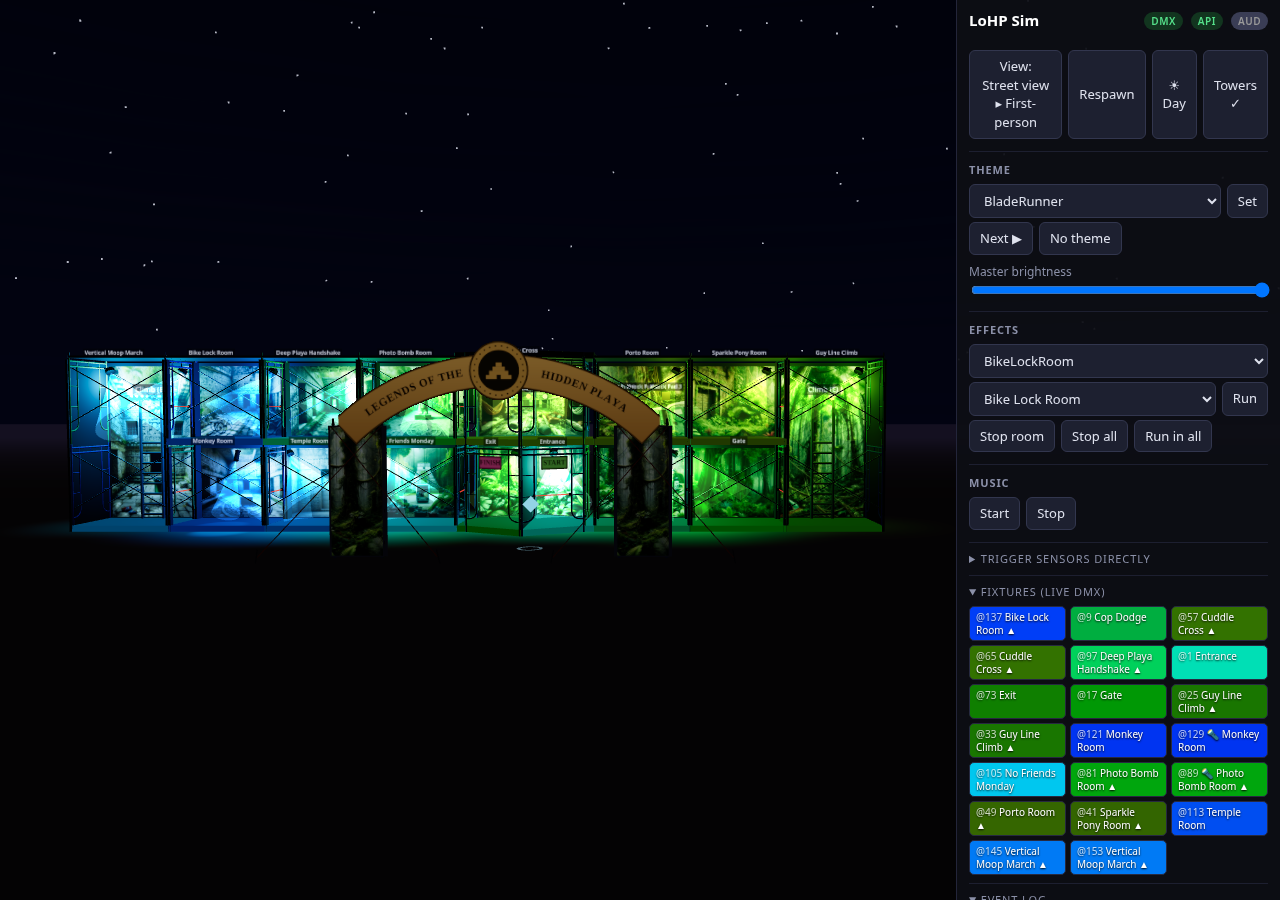
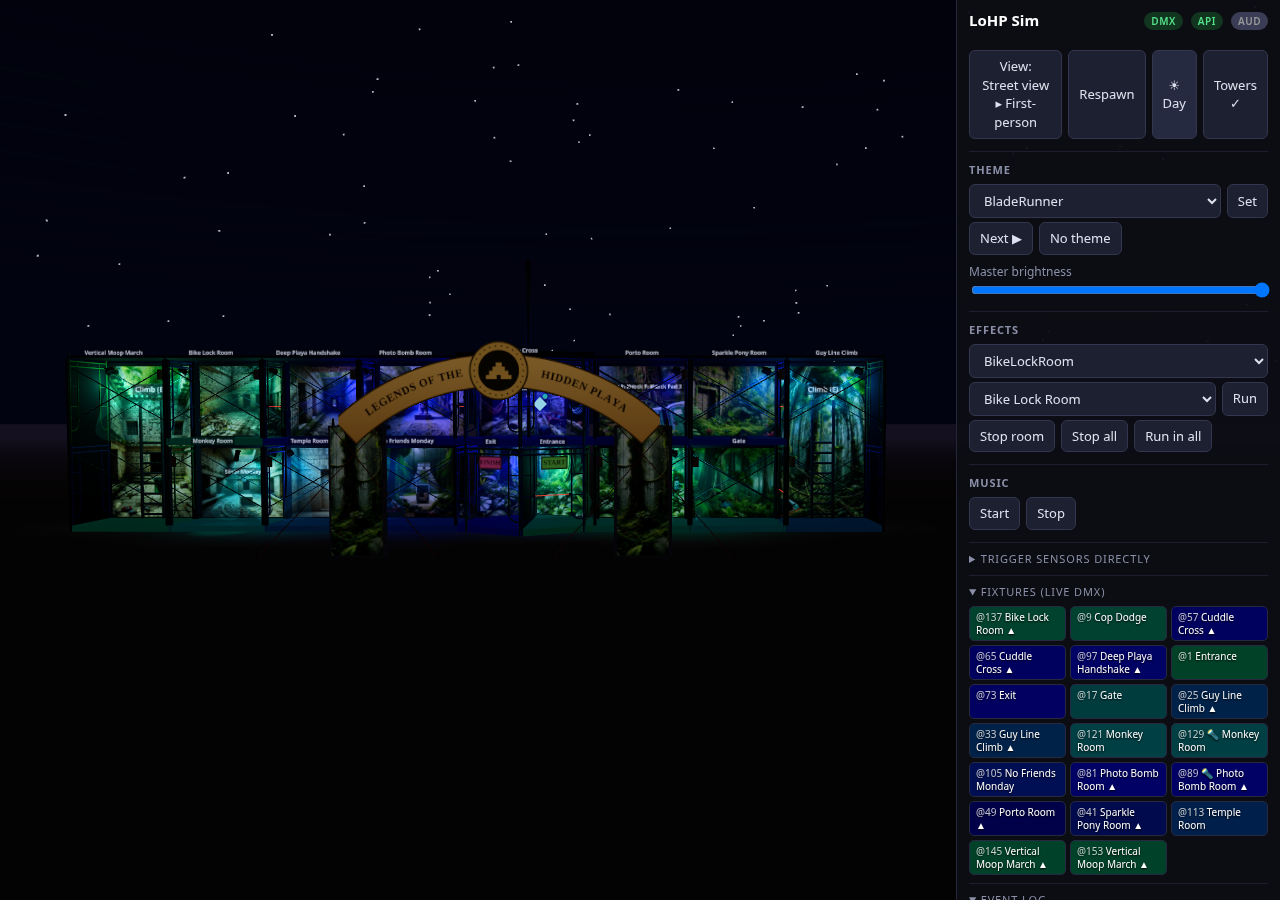
Sim: 20ft center mast, 5'11" eye line, room node-enclosure mounts + LD2410C plan
- hex center: single continuous 20 ft stick of 3" schedule 40 pipe (3.5" OD)
  from the ground through the Cuddle Cross deck and roof to the sky
  (hex_center.center_pole)
- first-person camera: EYE = 1.69 m (a 5'11" visitor's eye line) replaces the
  four hardcoded 1.6 m spots
- wiring-guides/room-node-enclosure-plan.md: wooden one-box-per-room node
  enclosures (XIAO C3 + LD2410C + power), frame-leg mounts only (no cross
  braces), pre-departure gate/threshold lock-in protocol (no on-site tuning)
- sim renders each room's enclosure block at its planned mount (per-room
  "enclosure" entries): wing bays on the entry-side front leg at 1.55 m,
  radar window aimed at the opposite back corner; Cuddle Cross back corner;
  Entrance/Exit near the back legs facing their arches
- README street screenshots refreshed with mast + enclosures

Changed region(s): [[0.0312, 0.3733, 0.6875, 0.6222], [0.75, 0.6533, 1.0, 0.9956]]

diff --git a/sim/web/app.js b/sim/web/app.js
@@ -23,6 +23,9 @@ let AUDIO_WS = `ws://${HOST}:8765`;
 const MODES = ['street', 'first', 'top'];
 const MODE_LABEL = { street: 'Street view', first: 'First-person', top: 'Overhead plan' };
 
+// first-person eye line: our visitors stand ≈5'11" (1.80 m), eyes at 1.69 m
+const EYE = 1.69;
+
 const S = {
   cfg: null,
   frame: new Uint8Array(168),
@@ -37,7 +40,7 @@ const S = {
   piezoAttempts: 0,
   mode: 'street',
   keys: {},
-  pos: new THREE.Vector3(11.7, 1.6, 4.5),
+  pos: new THREE.Vector3(11.7, EYE, 4.5),
   level: 0,
   prev2: { x: 11.7, z: 4.5 },
   yaw: 0, pitch: 0,
@@ -216,6 +219,7 @@ const matStrap = new THREE.MeshStandardMaterial({ color: 0xc65f1e, roughness: 0.
 // tower wrap: same shade cloth as the maze walls, but the towers carry no
 // fixtures, so a whisper of emissive keeps their silhouette readable at night
 const matTowerSkin = new THREE.MeshStandardMaterial({ color: 0x3a3b44, roughness: 0.9, metalness: 0.02, emissive: 0x0e0f16 });
+const matPly = new THREE.MeshStandardMaterial({ color: 0x9a7b52, roughness: 0.85, metalness: 0.02 });
 const matFramePaint = [
   new THREE.MeshStandardMaterial({ color: 0x2666b8, roughness: 0.5, metalness: 0.25 }), // our blue
   new THREE.MeshStandardMaterial({ color: 0x2f9e57, roughness: 0.5, metalness: 0.25 }), // our green
@@ -602,6 +606,33 @@ function buildMaze(cfg) {
     lbl.position.set(rx, yBase + 1.48, rz);
     grp(lv).add(lbl);
   }
+
+  // per-room node enclosures — the wooden sensor boxes from
+  // wiring-guides/room-node-enclosure-plan.md (XIAO C3 + LD2410C radar +
+  // power), hose-clamped to a frame leg: wing bays on the ENTRY-side front
+  // leg at 1.55 m, radar window (local +z) aimed at the diagonally-opposite
+  // back corner. Block placeholders for now; pos/aim come from the layout's
+  // per-room "enclosure" entries.
+  for (const r of Object.values(L.rooms)) {
+    const enc = r.enclosure;
+    if (!enc) continue;
+    const lv = enc.level != null ? enc.level : (r.floor === 1 ? 1 : 0);
+    const eg = new THREE.Group();
+    eg.position.set(enc.pos[0], lv * LH + (enc.h || 1.55), enc.pos[1]);
+    eg.rotation.y = (enc.yaw_deg || 0) * Math.PI / 180;
+    const box = new THREE.Mesh(new THREE.BoxGeometry(0.17, 0.22, 0.10), matPly);
+    eg.add(box);
+    // thinned window panel the radar looks through
+    const win = new THREE.Mesh(new THREE.PlaneGeometry(0.07, 0.07),
+      new THREE.MeshStandardMaterial({ color: 0x23242b, roughness: 0.5 }));
+    win.position.z = 0.0505;
+    eg.add(win);
+    const led = new THREE.Mesh(new THREE.BoxGeometry(0.012, 0.012, 0.006),
+      new THREE.MeshBasicMaterial({ color: 0x33ff66 }));
+    led.position.set(0.06, 0.085, 0.0505);
+    eg.add(led);
+    grp(lv).add(eg);
+  }
 }
 
 // ---------------------------------------------------------------- hex center
@@ -731,6 +762,20 @@ function buildHexCenter(L) {
       clamp.position.set(vx, cy, vz);
       grp(cy > LH ? 1 : 0).add(clamp);
     }
+  }
+
+  // the center mast: a SINGLE continuous 20 ft stick of 3" schedule 40 pipe
+  // (3.5" OD) standing at the exact hex center — up from the ground where
+  // the Exit|Entrance divider meets the middle, through the Cuddle Cross
+  // deck and the hex roof, straight to the sky ~7 ft above the structure.
+  // One piece, no joints; the deck and roof penetrations brace it. Lives in
+  // the shared group so it shows on both floor filters.
+  if (H.center_pole) {
+    const pr = (H.center_pole.od || 0.0889) / 2;
+    const ph = H.center_pole.height || 6.096;
+    const mast = new THREE.Mesh(new THREE.CylinderGeometry(pr, pr, ph, 24), matGalv);
+    mast.position.set(cx, ph / 2, cz);
+    levelGroups[2].add(mast);
   }
 
   // START / FINISH ply signs over the two street arches, angled with their
@@ -1561,7 +1606,7 @@ function setupControls(cfg) {
   $('btn-towers').onclick = () => setTowersVisible(!(towersGroup && towersGroup.visible));
   $('btn-respawn').onclick = () => {
     const sp = cfg.layout.spawn;
-    S.pos.set(sp.pos[0], 1.6, sp.pos[1]);
+    S.pos.set(sp.pos[0], EYE, sp.pos[1]);
     S.level = sp.level || 0;
     S.yaw = (sp.yaw_deg || 0) * Math.PI / 180;
     S.pitch = 0;
@@ -1628,7 +1673,7 @@ function updateMovement(dt) {
     move.normalize().multiplyScalar(speed * dt);
     S.pos.add(move);
   }
-  S.pos.y = 1.6 + S.level * S.levelHeight; // eye height under the 6.5ft ceiling
+  S.pos.y = EYE + S.level * S.levelHeight; // a 5'11" visitor's eyes under the 6'2" ceiling
 }
 
 function nearestLadder(maxDist) {
@@ -1713,7 +1758,7 @@ async function boot() {
   buildAvatar();
 
   const sp = cfg.layout.spawn;
-  S.pos.set(sp.pos[0], 1.6, sp.pos[1]);
+  S.pos.set(sp.pos[0], EYE, sp.pos[1]);
   S.level = sp.level || 0;
   S.yaw = (sp.yaw_deg || 0) * Math.PI / 180;
   S.prev2 = { x: S.pos.x, z: S.pos.z };

diff --git a/wiring-guides/room-node-enclosure-plan.md b/wiring-guides/room-node-enclosure-plan.md
@@ -1,0 +1,123 @@
+# Room node enclosures — mounting + LD2410C tuning plan
+
+Constraints this plan is built around (decided 2026-07-17):
+
+- **No on-site tuning.** Every gate/sensitivity/timeout value is locked before
+  departure via the mock-bay protocol below; geometry does the heavy lifting so
+  thresholds only trim the edges.
+- **One custom wooden enclosure per room** holding all of that room's
+  electronics: XIAO ESP32-C3 node, LD2410C radar, power, and screw terminals
+  for any wired extras (buttons).
+- **Mounts on scaffold frames only** — legs, headers/top rails, doorway tubes.
+  Never on the 7'×4' scissor cross braces (flexy, in the way, and they get
+  removed/re-pinned during assembly).
+
+## The enclosure
+
+- Wood is radar-friendly: mmWave passes plywood with a few dB loss. The **panel
+  in front of the radar must be ≤6 mm ply** (or a thinned window recess),
+  knot-free, **no metal** in the aperture zone — no staples, mesh, foil tape,
+  or screws within ~5 cm of the radar's forward view. Paint is fine
+  (non-metallic).
+- Layout inside: **radar flush against the inner face of the window panel**,
+  aimed out; node PCB and power behind it — their mass adds rear-lobe
+  shielding, which matters because the street audience is usually *behind* the
+  box.
+- Mounting: two hose clamps / pipe straps around the 1.69" frame tube (top +
+  bottom of the box), same clamp fleet as the rest of the build. One cable
+  gland for power + button runs.
+- Angles are built into the box, not adjusted on-site: cut the mounting cleat
+  so the window panel faces the aim direction below (azimuth) and shim the
+  cleat for the down-tilt. Label each box with room name before departure.
+
+## Standard wing bay (10 rooms)
+
+Bay: 7 ft wide × 5 ft deep × 6'4" tall (2.13 × 1.52 × 1.93 m). Visitors enter
+through a side-frame walk-thru arch; the street face is open (audience!); the
+back plane is canvas with backstage behind it.
+
+**Mount: the front leg of the ENTRY-side frame, radar centerline at 1.55 m,
+aimed at the diagonally-opposite BACK corner (≈35° into the room off the frame
+plane), 10° down-tilt (ground floor) / 5° (upper floor).**
+
+- Ground-floor bays are all entered from their **west** door, upper bays from
+  their **east** door — so it's one bracket design, mirrored per level.
+- Why this spot wins: the visitor appears at gate 0–1 the instant they step
+  through the entry arch (fast trigger); the boresight diagonal (2.62 m) ends
+  at the back canvas, so **overshoot lands in backstage** — the only
+  low-traffic direction available; and the **street audience sits in the
+  radar's rear hemisphere**, rejected by antenna pattern + box shielding
+  rather than by tuning.
+- Keep the aperture clear of the leg's brace studs/scissor ends; the braces
+  are static clutter at worst (calibrated out), but don't let a tube cross
+  directly in front of the window.
+
+```
+        street (audience)                     z=2.02
+   ─────────╥───────────────────────╥─────
+            ║ [BOX] ↘                ║          BOX on entry-side front leg,
+     entry  ║    ╲   boresight       ║  exit    aimed at far back corner
+     arch → ║     ╲  2.62 m diag     ║  arch →
+            ║      ╲                 ║
+   ═════════╩═══════╲════════════════╩═════  z=0.5
+        back canvas — backstage behind (overshoot zone)
+```
+
+Gate profile (0.75 m gates; radar at the corner, so distances are diagonal):
+
+| Gates | Zone | Setting |
+|---|---|---|
+| 0–1 (0–1.5 m) | entry arch + near half of room | full sensitivity (move + still) |
+| 2 (1.5–2.25 m) | far half of room | full move, moderate still |
+| 3 (2.25–3.0 m) | far corner + first sliver of backstage | **raised threshold**, move only |
+| 4–8 | backstage / neighbor bleed | **off** (max gate = 3) |
+
+`still` max gate = 2 for entry-triggered rooms (still-detection deep in the
+gate-3 zone is where backstage crew would false); dwell rooms keep still to 3.
+Absence timeout: 5 s standard; 60 s on dwell rooms (No Friends Monday).
+Upper-floor variant: 5° tilt (keeps the lobe off the plywood deck — radar sees
+through wood to the room below) and still thresholds one notch higher on
+gates 2–3.
+
+## Specials
+
+| Room | Mount | Notes |
+|---|---|---|
+| **Cuddle Cross** | Back-corner frame pair (the skinned faces' shared corner), 1.5 m above deck, aimed at the front corner across the deck | Max gate 4 (3.0 m = front corner; street crowd beyond and below). The 20 ft center mast sits dead-center at gate 2 — constant static reflector, so gate-2 still threshold gets set *above* its measured energy in the mock pass. Timeout 60 s+: sustained still presence = cuddling, the effect hook this room actually wants. |
+| **Entrance / Exit (hex)** | VL53L1X ToF on each arch's doorway tubes | Radar is wrong here: the Exit\|Entrance divider is radar-transparent, the two halves would cross-trigger. ToF beams on the arches match the BOM's doorway units. |
+| **Guy Line Climb / Vertical Moop March** | ToF beam across the shaft entry (doorway tubes) | Full-height shafts with ropes/hanging moop that move in wind — the worst radar environment in the maze. Beams at the entry boundary keep today's trigger semantics. Radar optional later, top-down from the upper header, if a "someone is mid-climb" state earns its keep. |
+| **Monkey Room** | Standard bay box + 2-wire run to the puzzle microswitch (GPIO3/GND, contract already in `packages/button_gpio_c3.example.yaml`) | Radar entry gets enabled only when a doorway effect is designed (placeholder was removed); the node + button ship regardless. |
+| **Photo Bomb Room** | Standard bay box + 2-wire run to the shutter arcade button on the back scaffold | Camera + flash stay on the server side (rack is on the adjacent shared frame). |
+
+## Sensor allocation
+
+Radar in the 10 wing bays + Cuddle Cross = 11 positions, but Temple / Monkey /
+VMM doorway effects are currently unwired (placeholders removed 2026-07-17), so
+**10 LD2410C covers every live trigger** with the unwired rooms joining as
+effects get designed. ToF: Entrance, Exit, Guy Line, VMM = 4 of the 6 VL53L1X,
+2 spare.
+
+## Pre-departure lock-in protocol (replaces on-site tuning)
+
+Because thresholds can't be trimmed at the maze, they get measured at home and
+locked. LD2410C units vary — **run the pass per physical unit, in its own
+enclosure**, then label box + room + node together.
+
+1. Tape a 7×5 ft bay on the floor; rig one frame section (or a 1.55 m stand)
+   with the enclosure mounted at the real angles. Hang a canvas scrap at the
+   back line, stand a helper at the real street line.
+2. Node runs engineering mode; the dev-box harness records per-gate energy for
+   the scripted positions: empty room (2 min baseline, fans on), person at
+   entry arch, room center, far corner, "street" at 0.3/1.0 m beyond the face,
+   "backstage" behind the canvas, "neighbor" one bay over.
+3. Set each gate threshold midway (in log-energy) between the strongest
+   must-ignore and the weakest must-detect for that gate. Bake the numbers
+   into that room's `rooms/*.yaml` substitutions; flash; **re-run the position
+   script as a pass/fail check** on the flashed unit.
+4. Values live in the radar's own NVM + the YAML is the source of truth.
+   Break-glass: every threshold is an ESPHome `number` entity, adjustable from
+   the server laptop over the maze WiFi without reflashing — for emergencies,
+   not the plan.
+5. Wind rehearsal: point a box fan at the canvas during the empty-baseline
+   capture — playa wind on fabric is the #1 expected false-positive source,
+   and it must be inside the baseline before thresholds are set.

diff --git a/sim/README.md b/sim/README.md
@@ -49,6 +49,13 @@ the upper deck is Cuddle Cross. The single **RPi + USB-DMX** box mounts
 **outside on the back wall**, behind Cuddle Cross on the shared scaffold
 frame with Photo Bomb Room (the PoE switch and extra Pis are gone).
 
+**A single 20 ft center mast** — one continuous stick of 3" schedule 40 pipe
+(3.5" OD, no joints) — stands at the exact middle of the hex: up from the
+ground where the Exit|Entrance divider meets the center, straight through the
+Cuddle Cross deck and the roof to the sky, topping out ~7 ft above the
+structure. The deck and roof penetrations are its lateral bracing
+(`hex_center.center_pole` in `maze_layout.json`).
+
 **Out front on the street stand two decorative entrance towers** (see
 `hiddenplaya.art/maze-1.jpeg`) with the *Legends of the Hidden Playa* sign
 arching between them, medallion at the peak. Each tower is three **3' × 4'
@@ -62,7 +69,11 @@ The structure has a **roof** over the top floor (hidden automatically in the
 overhead plan view), and **all lights and sensors mount on the back scaffolding/
 cross members**: fixtures are bracket-mounted, tilted down into their rooms (no
 poles in the walkways, nothing hangs mid-room); tripwire emitters sit on the
-frames at beam height.
+frames at beam height. Each room also renders its **wooden node-enclosure box**
+(XIAO C3 + LD2410C radar + power) at the planned mount from
+`wiring-guides/room-node-enclosure-plan.md` — wing bays on the entry-side front
+leg with the radar window aimed at the opposite back corner (`enclosure` keys
+in `maze_layout.json`).
 
 **Room backdrops**: every room's back wall carries its real printed-canvas
 background (the print masters live in `Background-images/` at the repo root,